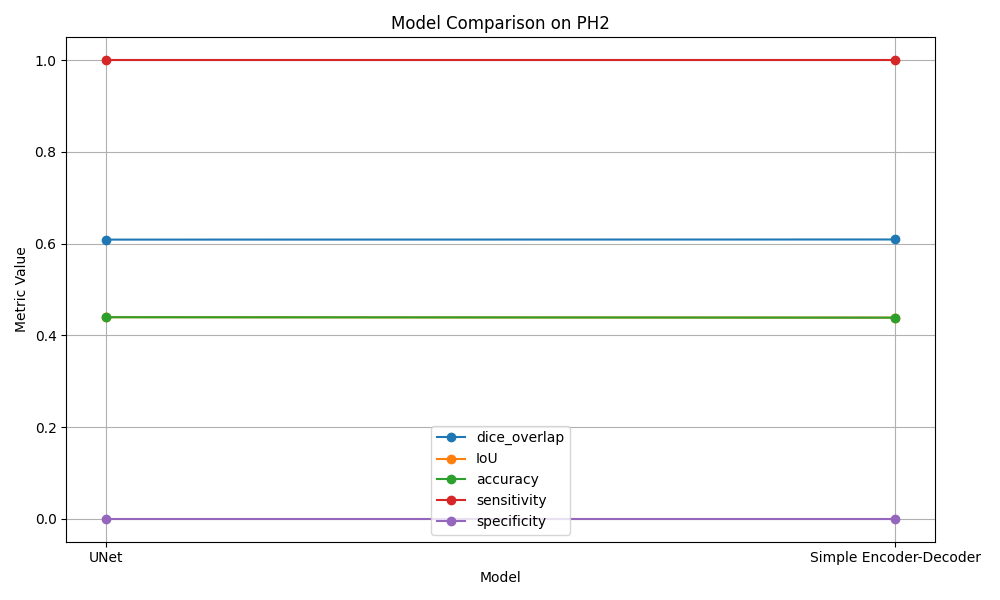
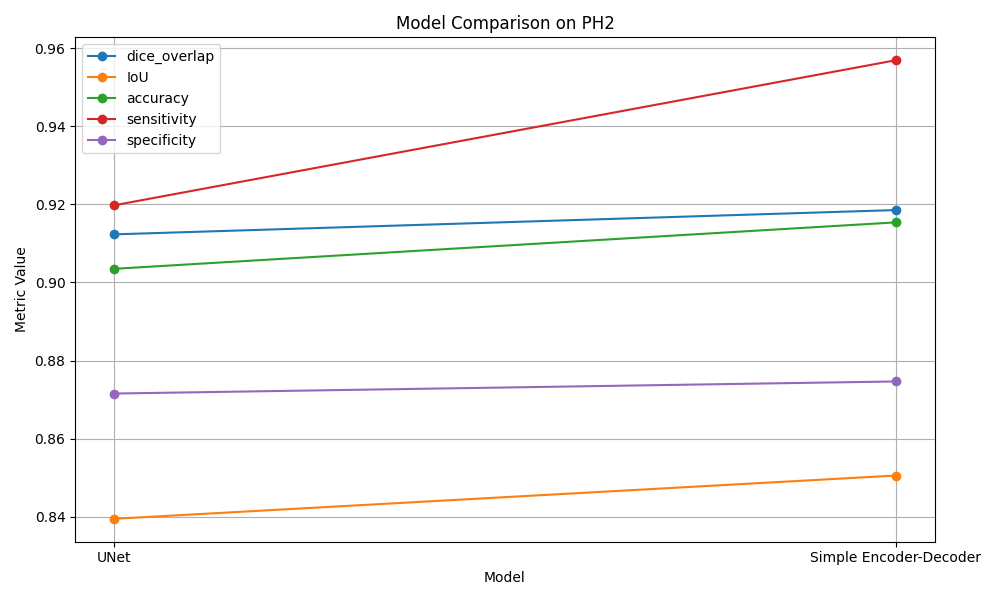
metrics implemented

diff --git a/poster-2-segmentation/models/evaluation.py b/poster-2-segmentation/models/evaluation.py
@@ -2,7 +2,6 @@ import torch
 from utils.logger import logger
 import matplotlib.pyplot as plt
 
-# Step 1: Define a function to evaluate a single model
 def evaluate_model(model, data_loader, device, metrics, dataset_name):
     model.eval()
     metric_totals = {metric.__name__: 0.0 for metric in metrics}
@@ -11,37 +10,33 @@ def evaluate_model(model, data_loader, device, metrics, dataset_name):
     with torch.no_grad():
         for images, masks in data_loader:
             images, masks = images.to(device), masks.to(device)
-            outputs = torch.sigmoid(model(images))  # Sigmoid to get probabilities
-            preds = (torch.sigmoid(outputs) > 0.5).float()
+            outputs = model(images)  # Get raw logits from the model
+            probs = torch.sigmoid(outputs)  # Apply sigmoid once to get probabilities
+            preds = (probs > 0.5).float()  # Threshold to get binary predictions
+
 
             for metric in metrics:
                 metric_value = metric(preds, masks)
                 metric_totals[metric.__name__] += metric_value
 
-    # Calculate average for each metric
     metric_averages = {metric: total / num_batches for metric, total in metric_totals.items()}
 
-    # Logging and printout
     logger.info(f"Evaluation results for {dataset_name}:")
     for metric, average in metric_averages.items():
         logger.info(f"{metric}: {average:.4f}")
     
     return metric_averages
 
-# Step 2: Define a function to compare multiple models and plot results
 def compare_models(models, model_names, data_loader, device, metrics, dataset_name):
     all_metrics = {metric.__name__: [] for metric in metrics}
     
-    # Evaluate each model and collect results
     for model, name in zip(models, model_names):
         logger.working_on(f"Evaluating model {name} on {dataset_name}")
         metric_averages = evaluate_model(model, data_loader, device, metrics, dataset_name)
         
-        # Append each metric result to all_metrics for plotting
         for metric, value in metric_averages.items():
             all_metrics[metric].append(value)
     
-    # Plotting the comparison results
     plt.figure(figsize=(10, 6))
     for metric, values in all_metrics.items():
         plt.plot(model_names, values, marker='o', label=metric)

diff --git a/poster-2-segmentation/main.py b/poster-2-segmentation/main.py
@@ -27,7 +27,7 @@ logger.info(f"Running on {DEVICE}")
 logger.working_on("Loading data for PH2")
 
 # Adjustable crop size (set to None if you don't want to crop)
-RESIZE = (400, 400)  # Resize after cropping (if desired)
+RESIZE = None #(400, 400) # Or None 
 CROP_SIZE = (256, 256)  # or None
 
 transform_ph2_train = JointTransform(crop_size=CROP_SIZE, resize=RESIZE)
@@ -87,7 +87,7 @@ if PH2_TRAIN_CNN:
     # Simple Encoder-Decoder on PH2
 
     LEARNING_RATE = 0.0001
-    MAX_EPOCHS =2 
+    MAX_EPOCHS = 100
     loss_fn = bce_loss
 
 
@@ -111,7 +111,7 @@ if PH2_TRAIN_CNN:
 if DRIVE_TRAIN_CNN:
     # Simple Encoder-Decoder on DRIVE
     LEARNING_RATE = 0.001
-    MAX_EPOCHS =2 
+    MAX_EPOCHS = 100
     loss_fn = bce_loss
 
     encdec_drive_model = EncDec(input_channels=3, output_channels=1)
@@ -134,7 +134,7 @@ if DRIVE_TRAIN_CNN:
 
 # Simple Encoder-Decoder on UNet
 LEARNING_RATE = 0.001
-MAX_EPOCHS =2 
+MAX_EPOCHS = 100
 PADDING = 1 # no padding
 loss_fn = bce_loss
 
@@ -159,7 +159,7 @@ logger.success("Saved examples of predictions for UNet to 'figures'")
 
 # Simple UNet on DRIVE
 LEARNING_RATE = 0.001
-MAX_EPOCHS =2 
+MAX_EPOCHS = 100
 PADDING = 1 # no padding
 loss_fn = bce_loss
 
@@ -195,16 +195,12 @@ logger.success("Saved examples of predictions for UNet of DRIVE to 'figures'")
 # Evaluation
 metrics = [dice_overlap, IoU, accuracy, sensitivity, specificity]
 
-# Assuming models and data loaders are defined
-models = [UNetModel_ph2, encdec_ph2_model]  # List your models here
+models = [UNetModel_ph2, encdec_ph2_model]  
 model_names = ["UNet", "Simple Encoder-Decoder"]
-
-# Compare models for PH2 dataset
 
 compare_models(models, model_names, ph2_train_loader, DEVICE, metrics, dataset_name="PH2")
 
-models = [UNetModel_drive, encdec_drive_model]  # List your models here
+models = [UNetModel_drive, encdec_drive_model]  
 model_names = ["UNet", "Simple Encoder-Decoder"]
 
-# Similarly for DRIVE dataset
 compare_models(models, model_names, drive_train_loader, DEVICE, metrics, dataset_name="DRIVE")

diff --git a/poster-2-segmentation/models/metrics.py b/poster-2-segmentation/models/metrics.py
@@ -12,8 +12,8 @@ def reshape_input(y_pred, y_real):
 
 
 def dice_overlap(y_pred, y_real):
-    print(f'The shape of y_pred {y_pred.shape}')
-    print(f'The shape of y_real {y_real.shape}')
+    #print(f'The shape of y_pred {y_pred.shape}')
+    #print(f'The shape of y_real {y_real.shape}')
     
     if y_pred.shape != y_real.shape:
         print(f'The shape of y_pred {y_pred.shape}')
@@ -58,7 +58,6 @@ def accuracy(y_pred, y_real):
     return accuracy.item()
 
 def sensitivity(y_pred, y_real, epsilon=1e-6):
-
     if y_pred.shape != y_real.shape:
         y_real = reshape_input(y_pred, y_real)
 
@@ -69,11 +68,9 @@ def sensitivity(y_pred, y_real, epsilon=1e-6):
     FN = ((pred == 0) & (target == 1)).sum().float()
 
     sensitivity = TP / (TP + FN + epsilon)
-    
     return sensitivity.item()  
 
 def specificity(y_pred, y_real, epsilon=1e-6):
-
     if y_pred.shape != y_real.shape:
         y_real = reshape_input(y_pred, y_real)
     
@@ -84,5 +81,5 @@ def specificity(y_pred, y_real, epsilon=1e-6):
     FP = ((pred == 1) & (target == 0)).sum().float()
 
     specificity = TN / (TN + FP + epsilon)
-    
+
     return specificity.item()  

diff --git a/poster-2-segmentation/models/train.py b/poster-2-segmentation/models/train.py
@@ -22,9 +22,8 @@ def train_model(model, train_loader, val_loader, loss_fn, optimizer, wandb_confi
             optimizer.zero_grad()
             
             outputs = model(images)
-            print(outputs.shape)
             loss = loss_fn(outputs, masks)
-            
+
             loss.backward()
             optimizer.step()
             
